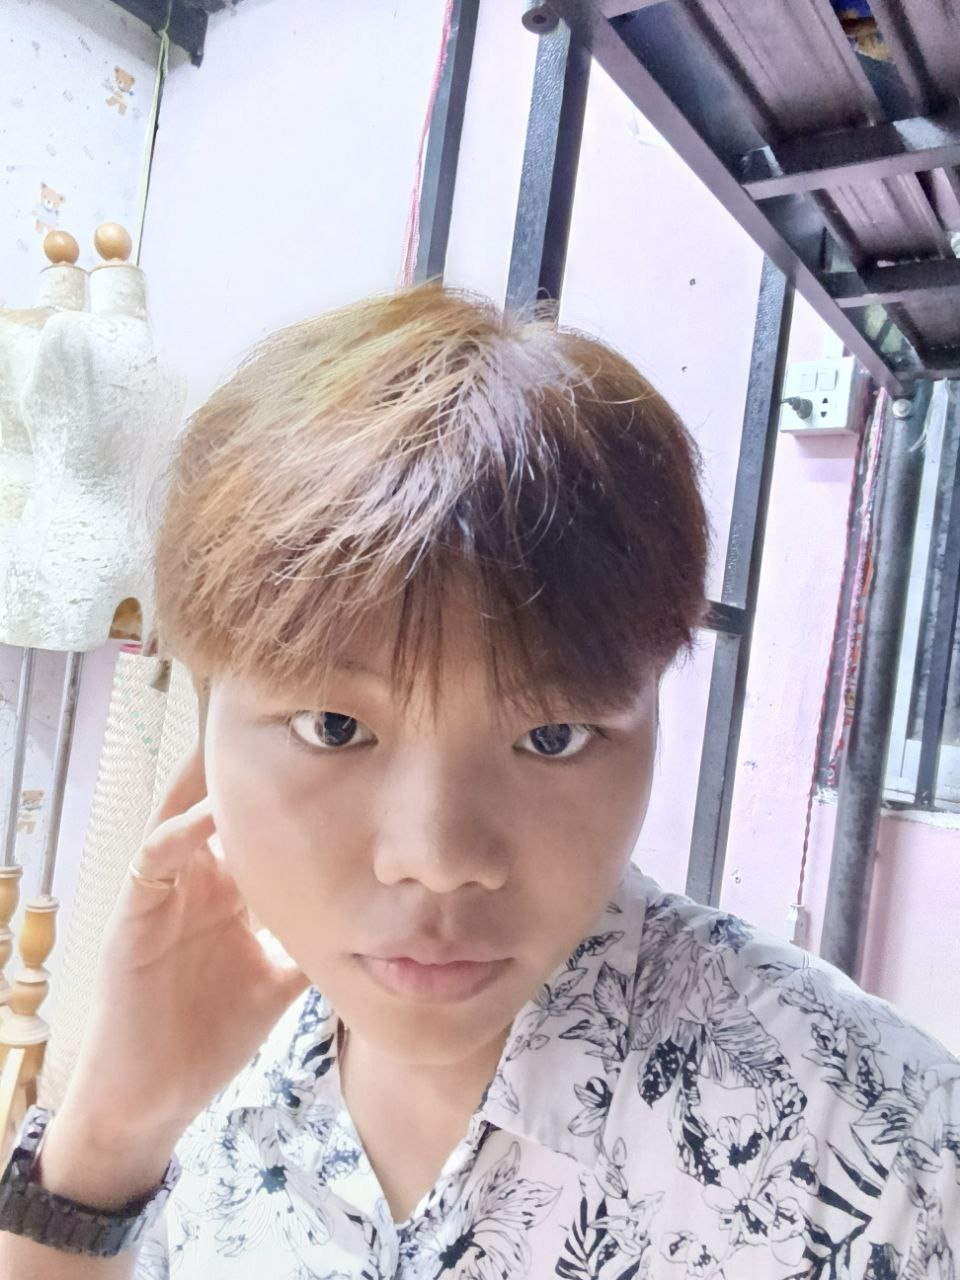
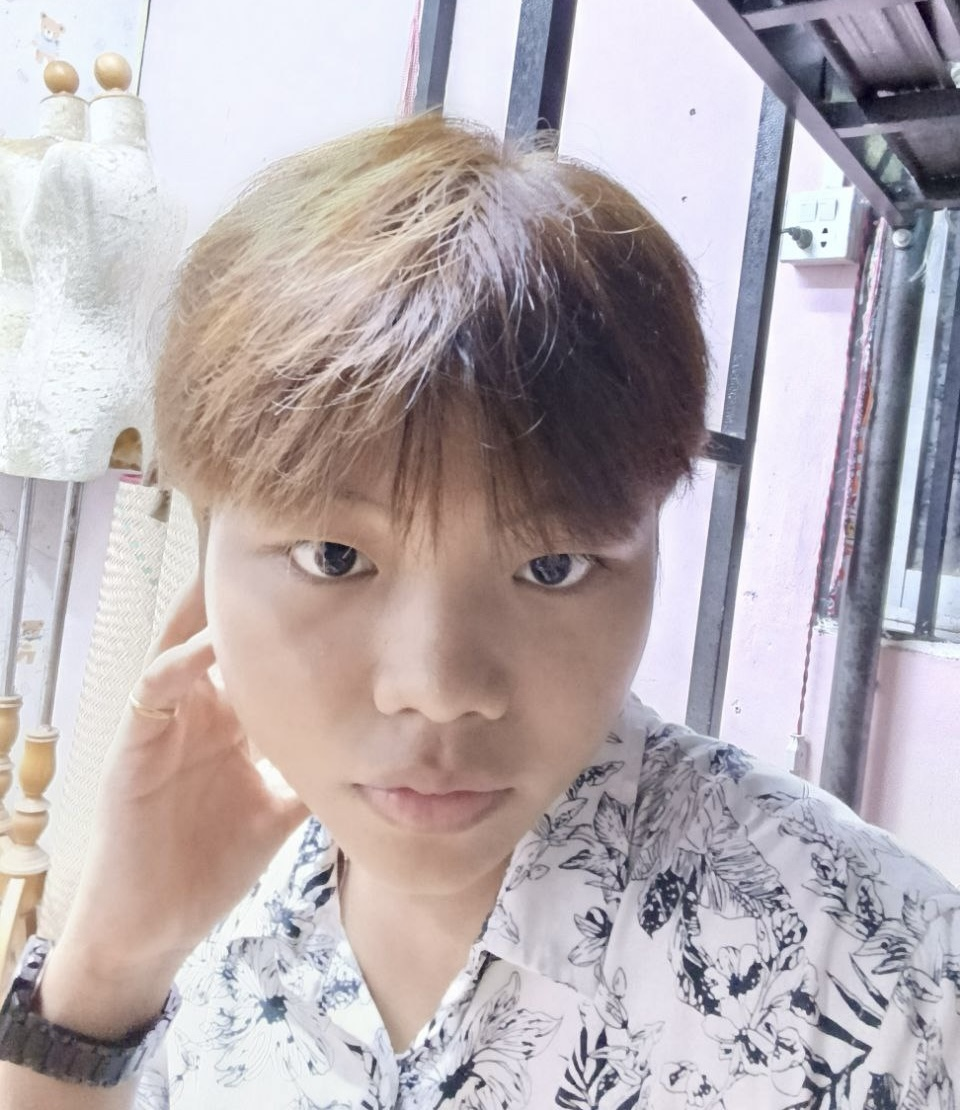
retrieving status from local storage and adjusting the loading indicator in the middle and fixing some candidate images and user manual texts

diff --git a/frontend/src/Components/Utils/Modal/ConfirmationModal.tsx b/frontend/src/Components/Utils/Modal/ConfirmationModal.tsx
@@ -130,13 +130,16 @@ const ConfirmationModal = ({isOpen, setShowModal, candidateName,setShowVotedModa
                 >
                         <span>{
                             isConfirming? 
-                                <svg className={`animate-spin h-5 w-5 ${isLightMode? "text-dark-text-primary" : "text-cwhite"} `}xmlns="http://www.w3.org/2000/svg" fill="none" viewBox="0 0 24 24">
-                                    <circle className="opacity-25" cx="12" cy="12" r="10" stroke="currentColor" strokeWidth="4"></circle>
-                                    <path className="opacity-75" fill="currentColor" d="M4 12a8 8 0 018-8V0C5.373 0 0 5.373 0 12h4zm2 5.291A7.962 7.962 0 014 12H0c0 3.042 1.135 5.824 3 7.938l3-2.647z"></path>
-                                </svg> :
+                                <div className='flex items-center justify-center space-x-2'>
+                                    <svg className={`animate-spin h-5 w-5 mx-auto ${isLightMode? "text-dark-text-primary" : "text-cwhite"} `}xmlns="http://www.w3.org/2000/svg" fill="none" viewBox="0 0 24 24">
+                                        <circle className="opacity-25" cx="12" cy="12" r="10" stroke="currentColor" strokeWidth="4"></circle>
+                                        <path className="opacity-75" fill="currentColor" d="M4 12a8 8 0 018-8V0C5.373 0 0 5.373 0 12h4zm2 5.291A7.962 7.962 0 014 12H0c0 3.042 1.135 5.824 3 7.938l3-2.647z"></path>
+                                    </svg>
+                                </div>
+                                 :
                                 <span>Confirm</span>
                 
-                }</span>
+                        }</span>
                 </button>
                 <button onClick={handleCancel} className={modalButtonStyle}>Cancel</button>
             </div>

diff --git a/frontend/src/pages/UserPages/UserManual/UserManual.tsx b/frontend/src/pages/UserPages/UserManual/UserManual.tsx
@@ -30,19 +30,21 @@ const UserManual = ({setSelectedPage}: Props) => {
           >
             <motion.li className="mb-10 xl:pl-10"
             variants={childVariants}
-            >ahfoowaheofohef</motion.li>
+            >
+              If you are on mobile, click the toggle button on the navbar to see login button
+            </motion.li>
             <motion.li className="mb-10 xl:pl-10"
             variants={childVariants}
-            >afahfwehffh</motion.li>
+            >We will provide you with login credentials the day before the Fresher Welcome Party</motion.li>
             <motion.li className="mb-10 xl:pl-10"
             variants={childVariants}
-            >oahhfohwehfw</motion.li>
+            >If you are seeing blank page, we request you to refresh the page to see the contents</motion.li>
             <motion.li className="mb-10 xl:pl-10"
             variants={childVariants}
-            >ajhfeohaweofhowe</motion.li>
+            >Due to the fact that our server being deployed on a free hosting service, some data fetching process might be a bit slow. We humbly request you to wait rather than "clicking" a button multiple times</motion.li>
             <motion.li className="mb-10 xl:pl-10"
             variants={childVariants}
-            >ahhhfowefj</motion.li>
+            >Though we've tested with multiple browsers, we strongly recommend chrome or firefox for both android and ios.</motion.li>
           </motion.ul>
         </div>
         

diff --git a/backend/src/controllers/adminController.js b/backend/src/controllers/adminController.js
@@ -33,7 +33,7 @@ async function selectAllData(req, res) {
   try {
     const { data, error } = await supabase
       .from("students")
-      .select("name, admissionid, gender, year, rollnum, role")
+      .select("name, admissionid, gender, year, rollnum, role");
 
     if (error) return res.status(400).json({ message: error.message });
 
@@ -55,7 +55,7 @@ async function getVotingStatus(req, res) {
 
     const isVotingOpen = data[0];
 
-    return res.status(400).json({ isVotingOpen })
+    return res.status(400).json({ isVotingOpen });
   } catch (error) {
     return res.status(500).json({ error: error.message });
   }
@@ -73,12 +73,16 @@ async function setVotingStatus(req, res) {
       .eq("studentid", id);
 
     if (error) return res.status(400).json({ error: error.message });
-    
+
     return res.status(200).json({ message: "success" });
   } catch (error) {
     return res.status(500).json({ error: error.message });
   }
 }
 
-
-module.exports = { changeRole, selectAllData, getVotingStatus, setVotingStatus };
+module.exports = {
+  changeRole,
+  selectAllData,
+  getVotingStatus,
+  setVotingStatus,
+};

diff --git a/frontend/src/pages/UserPages/Hero/Hero.tsx b/frontend/src/pages/UserPages/Hero/Hero.tsx
@@ -18,7 +18,8 @@ export default function Hero({setSelectedPage}: Props) {
 
   // props from model
   const location = useLocation();
-  const personStatus: People = location.state;
+  const personStatus: People = localStorage.getItem('status') ?? location.state;
+
 
   const displayText: WelcomeText = checkPersonStatus(personStatus);
 
